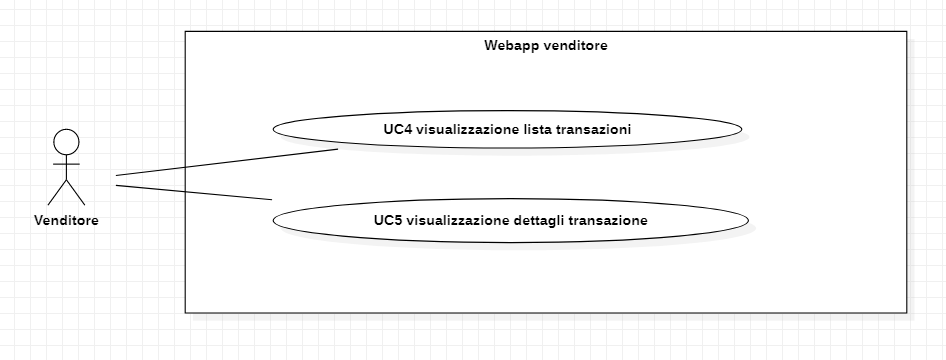
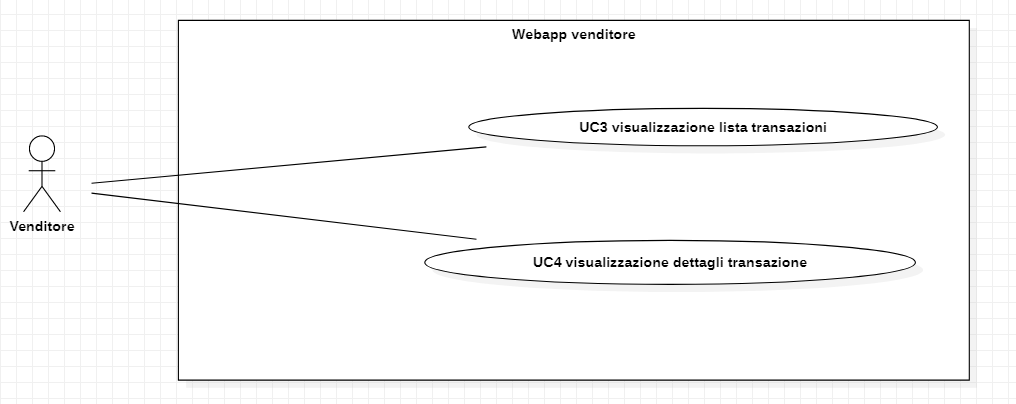
immagini e requisiti

diff --git a/docs/esterni/analisi_dei_requisiti/analisi_dei_requisiti.tex b/docs/esterni/analisi_dei_requisiti/analisi_dei_requisiti.tex
@@ -40,7 +40,7 @@ Lo scopo del documento è raccogliere i risultati dell'attività di analisi dei 
 
 \section{Descrizione del prodotto}
 L'azieda \textit{SyncLab} propone, attraverso il capitolato C2: \textit{ShopChain - Exchange Platform on
-BlockChain}. L'obiettivo è sviluppare un sistema che permetta ad un qualsiasi e-commerce di usare criptovalute come metodo di pagamento. ciò consiste nella realizzazione su blockchain di una piattaforma che si incarichi di ricevere l’ammontare in criptovaluta, lo trattenga, e lo consegni al venditore solo quando il pacco viene recapitato all’acquirente.
+BlockChain}. L'obiettivo è sviluppare un sistema che permetta ad un qualsiasi e-commerce di usare criptovalute come metodo di pagamento. Ciò consiste nella realizzazione su blockchain di una piattaforma che si incarichi di ricevere l’ammontare in criptovaluta, lo trattenga, e lo consegni al venditore solo quando il pacco viene recapitato all’acquirente.
 \subsection{Scopo del prodotto}
 Il progetto consiste nello sviluppo di una piattaforma su blockchain con lo scopo di rendere possibile l'acquisto di prodotti tramite criptovalute in sicurezza. Il processo di trasferimento del denaro avviene seguendo queste fasi:
 \begin{enumerate}
@@ -68,7 +68,7 @@ Tutti gli utenti sono in possesso di un wallet per criptovalute.
 Non potendo prevedere con accuratezza quanti e quali e-commerce decideranno di utilizzare \textit{ShopChain} altre considerazioni sulle caratteristiche di utenza sono irrilevanti. Il prodotto deve essere facilmente integrabile in più tipologie di e-commerce possibili.
 
 \subsection{Vincoli e preferenze}
-La proponente non impone vincoli nella scelta della tipologia di tecnologie, va ci sono comunque delle scelte preferenziali da considerare:
+Il proponente non impone vincoli nella scelta della tipologia di tecnologie, ma ci sono comunque delle scelte preferenziali da considerare:
 \begin{itemize}
 \item Utilizzo di blockchain pubblica
 \item Utilizzo di Java e Angular per lo sviluppo delle parti di Back-end e di Front-end della componente web application del sistema
@@ -83,6 +83,8 @@ Per il completamento del progetto il proponente richiede che siano realizzati i 
 \end{itemize}
 
 \section{Casi d'uso}
+
+\includegraphics[width=0.7\textwidth]{UseCase_venditore1.png}
 
 \paragraph{UC1 - Consultazione manuale ShopChain}
 \textbf{Attore primario}: Venditore\\
@@ -133,8 +135,7 @@ Per il completamento del progetto il proponente richiede che siano realizzati i 
 \paragraph{UC3 visualizzazione lista transazioni}
 \textbf{Attore primario}: Venditore \\
 \textbf{Precondizioni}: Il venditore ha effettuato l'accesso al sistema.\\
-\textbf{Postcondizioni}:  Il venditore vede la lista delle transazioni
-Scenario principale.\\
+\textbf{Postcondizioni}:  Il venditore vede la lista delle transazioni.\\
 \textbf{Scenario principale}:
 \begin{enumerate}
 \item Il venditore tramite un menù arriva alla lista delle transazioni.
@@ -146,6 +147,7 @@ Scenario principale.\\
 \textbf{Attore primario}: Venditore\\
 \textbf{Precondizioni}: Il venditore ha acceduto alla funzionalità di visualizzazione della lista delle transazioni.\\
 \textbf{Postcondizioni}: Il venditore vede i dettagli di una singola transizione.\\
+\textbf{Scenario principale}:
 \begin{enumerate}
 \item Il venditore seleziona una delle transizioni dall'elenco.
 \item Il venditore visualizza i dettagli della singola transizione.
@@ -163,6 +165,7 @@ Scenario principale.\\
 \textbf{Attore primario}: Venditore\\
 \textbf{Precondizioni}: Il venditore vuole generare il QR Code di una transizione in attesa.\\
 \textbf{Postcondizioni}: Il venditore è in possesso del QR Code da applicare sul pacco del prodotto.\\
+\textbf{Scenario principale}:
 \begin{enumerate}
 \item Il venditore visualizza il Qr Code della transizione in attesa selezionata.
 \item Il venditore stampa il Qr Code e lo applica sul pacco del prodotto.
@@ -394,7 +397,7 @@ Scenario principale.\\
 \end{enumerate}
 
 \section{Requisiti}
-Ogni requisito è indentificato da un codice univoco composto da: R(per requisito)+F/Q/V(per la tipologia: funzionale, qualitativo, di vincolo)+O/D/F(per la rilevanza: obbligatorio, desiderabile, facoltativo)+x(un numero univoco).
+Ogni requisito è indentificato da un codice univoco composto da: R(per requisito)+F/N(per la tipologia: funzionale, non funzionale)+O/D/F(per la rilevanza: obbligatorio, desiderabile, facoltativo)+x(un numero univoco a due cifre).
 \subsection{Requisiti funzionali}
  
  \setlength\tabcolsep{4pt}
@@ -414,98 +417,85 @@ Ogni requisito è indentificato da un codice univoco composto da: R(per requisit
  \endhead
 
 \hline
-RFOX & Il venditore privo di wallet riconosciuto deve poter far riconoscere il proprio wallet tramite Metamask. & Obbligatorio & UC2 \\
+RFO01 & Il venditore privo di wallet riconosciuto deve poter far riconoscere il proprio wallet tramite Metamask. & Obbligatorio & UC2 \\
 \hline
-RFOX & L'acquirente privo di wallet riconosciuto deve poter far riconoscere il proprio wallet tramite Metamask & Obbligatorio & UC6, UC14 \\
+RFO02 & L'acquirente privo di wallet riconosciuto deve poter far riconoscere il proprio wallet tramite Metamask. & Obbligatorio & UC6, UC14 \\
 \hline
-RFOX & Il venditore con wallet già associato tramite metamask deve poter accedere automaticamente al sistema & Obbligatorio & UC7, UC15 \\
+RFO03 & Il venditore con wallet già associato tramite metamask deve poter accedere automaticamente al sistema. & Obbligatorio & UC7, UC15 \\
 \hline
-RFOX & L'acquirente con wallet già associato tramite metamask deve poter accedere automaticamente al sistema & Obbligatorio & UC7, UC15 \\
+RFO04 & L'acquirente con wallet già associato tramite metamask deve poter accedere automaticamente al sistema. & Obbligatorio & UC7, UC15 \\
 \hline
-RFOX & Un utente privo di wallet riconosciuto non può accedere al sistema & Obbligatorio & Capitolato, decisione interna \\
+RFO05 & Un utente privo di wallet riconosciuto non può accedere al sistema. & Obbligatorio & Capitolato, decisione interna \\
 \hline
-RFOX & Il sistema deve mostrare un messaggio di errore se la procedura di riconoscimento wallet tramite Metamask fallisce & Obbligatorio & UC3.2, UC11, UC18 \\
+RFO06 & Il sistema deve mostrare un messaggio di errore se la procedura di riconoscimento wallet tramite Metamask fallisce. & Obbligatorio & UC3.2, UC11, UC18 \\
 \hline
-RFOX & Il venditore deve poter visualizzare la lista delle transazioni. & Obbligatorio & UC3 \\ 
+RFO07 & Il venditore deve poter visualizzare la lista delle transazioni. & Obbligatorio & UC3 \\ 
 \hline
-RFOX & Il venditore deve poter visualizzare i dettagli di una singola transizione. & Obbligatorio & UC4 \\ 
+RFO08 & Il venditore deve poter visualizzare i dettagli di una singola transizione. & Obbligatorio & UC4 \\ 
 \hline
-RFOX & Il venditore deve poter visualizzare, per ogni transazione, il suo stato, l'importo, e la scadenza & Obbligatorio & UC4.1, UC4.3 e UC4.4 \\ 
+RFO09 & Il venditore deve poter visualizzare, per ogni transazione, il suo stato, l'importo, e la scadenza. & Obbligatorio & UC4.1, UC4.3 e UC4.4 \\ 
 \hline
-RFOX & Il venditore deve poter generare il QR Code corrispondente ad una certa transizione, direttamente dalla pagina di visualizzazione dei dettagli della stessa. & Obbligatorio & UC4.2 \\ 
+RFO10 & Il venditore deve poter generare il QR Code corrispondente ad una certa transizione, direttamente dalla pagina di visualizzazione dei dettagli della stessa. & Obbligatorio & UC4.2 \\ 
 \hline
-RFOX & Ad ogni inserimento di un nuovo prodotto nel sito di e-commerce del venditore, in automatico viene inserito lo stesso prodotto in blockchain. & Obbligatorio & UC5 \\ 
+RFO11 & Ad ogni inserimento di un nuovo prodotto nel sito di e-commerce del venditore, in automatico viene inserito lo stesso prodotto in blockchain. & Obbligatorio & UC5 \\ 
 \hline
-RFOX & L'acquirente con wallet associato deve poter vedere il riepilogo del'ordine sulla landing page & Obbligatorio & UC8 \\
+RFO12 & L'acquirente con wallet associato deve poter vedere il riepilogo del'ordine sulla landing page. & Obbligatorio & UC8 \\
 \hline
-RFOX & Il costo nel riepilogo ordine sulla landing page deve essere visualizzato in dollari & Obbligatorio & UC8.1 \\
+RFO13 & Il costo nel riepilogo ordine sulla landing page deve essere visualizzato in dollari. & Obbligatorio & UC8.1 \\
 \hline
-RFOX & L'acquirente con wallet associato deve poter confermare l'ordine sulla landing page & Obbligatorio & UC9 \\
+RFO14 & L'acquirente con wallet associato deve poter confermare l'ordine sulla landing page. & Obbligatorio & UC9 \\
 \hline
-RFOX & Il sistema deve mostrare un messaggio se l'utente annulla l'ordine sulla landing page & Obbligatorio & UC12 \\
+RFO15 & Il sistema deve mostrare un messaggio se l'utente annulla l'ordine sulla landing page. & Obbligatorio & UC12 \\
 \hline
-RFOX & L'acquirente con wallet associato deve poter pagare l'ordine sulla landing page tramite Metamask & Obbligatorio & UC10 \\
+RFO16 & L'acquirente con wallet associato deve poter pagare l'ordine sulla landing page tramite Metamask. & Obbligatorio & UC10 \\
 \hline
-RFOX & Il sistema deve mostrare un messaggio di errore se la procedura di pagamento sulla landing page tramite Metamask fallisce & Obbligatorio & UC13 \\
+RFO17 & Il sistema deve mostrare un messaggio di errore se la procedura di pagamento sulla landing page tramite Metamask fallisce. & Obbligatorio & UC13 \\
 \hline
-RFOX & L'acquirente con wallet associato deve poter scansionare il QR Code sulla webapp & Obbligatorio & UC16 \\
+RFO18 & L'acquirente con wallet associato deve poter scansionare il QR Code sulla webapp. & Obbligatorio & UC16 \\
 \hline
-RFOX & Il sistema deve mostrare un messaggio di errore se la procedura di scansione QR Code nella webapp fallisce & Obbligatorio & UC19 \\
+RFO19 & Il sistema deve mostrare un messaggio di errore se la procedura di scansione QR Code nella webapp fallisce. & Obbligatorio & UC19 \\
 \hline
-RFOX & L'acquirente con wallet associato deve poter accettare sulla webapp tramite Metamask & Obbligatorio & UC17 \\
+RFO20 & L'acquirente con wallet associato deve poter accettare sulla webapp tramite Metamask. & Obbligatorio & UC17 \\
 \hline
-RFOX & Il sistema deve mostrare un messaggio di errore se la procedura di accettazione ordine nella webapp tramite Metamask fallisce & Obbligatorio & UC20 \\
+RFO21 & Il sistema deve mostrare un messaggio di errore se la procedura di accettazione ordine nella webapp tramite Metamask fallisce. & Obbligatorio & UC20 \\
 \hline
 
 \end{longtable}
+\pagebreak
 
 \setlength\tabcolsep{4pt}
 \begin{longtable}{|c|p{5cm}|c|c|}
 \hline
- \multicolumn{4}{| c |}{Requisiti di vincolo}\\
+ \multicolumn{4}{| c |}{Requisiti non funzionali}\\
  \hline
  Codice & Descrizione & rilevanza & fonti\\
  \hline
  \endfirsthead
 
  \hline
- \multicolumn{4}{| c |}{Requisiti di vincolo}\\
+ \multicolumn{4}{| c |}{Requisiti non funzionali}\\
  \hline
  Codice & Descrizione & Rilevanza & Fonti\\
  \hline
  \endhead
 
 \hline
-RVOX & Utilizzo di blockchain pubblica & Obbligatorio & Capitolato, decisione interna \\
+RNO22 & Utilizzo di blockchain pubblica. & Obbligatorio & Capitolato, decisione interna \\
 \hline
-RVDX & Utilizzo di Java e Angular per lo sviluppo delle parti di Back-end e di Front-end
-della componente web application del sistema & Desiderabile &  Capitolato\\
+RND23 & Utilizzo di Java e Angular per lo sviluppo delle parti di Back-end e di Front-end
+della componente web application del sistema. & Desiderabile &  Capitolato\\
 \hline
-RVDX & Utilizzo di database Postgres & Desiderabile & Capitolato \\
+RND24 & Utilizzo di database Postgres. & Desiderabile & Capitolato \\
 \hline
-\end{longtable}
-
-\setlength\tabcolsep{4pt}
-\begin{longtable}{|c|p{5cm}|c|c|}
+RND25 & Utilizzo di Java e Angular per lo sviluppo delle parti di Back-end e di Front-end
+della componente web application del sistema. & Desiderabile &  Capitolato\\
 \hline
- \multicolumn{4}{| c |}{Requisiti di quaità}\\
- \hline
- Codice & Descrizione & rilevanza & fonti\\
- \hline
- \endfirsthead
-
- \hline
- \multicolumn{4}{| c |}{Requisiti di qualità}\\
- \hline
- Codice & Descrizione & Rilevanza & Fonti\\
- \hline
- \endhead
-
+RNO26 & Il venditore deve disporre di un manuale utente per l'utilizzo del sistema. & Obbligatorio &  UC1, decisione interna\\
 \hline
-RQOX & Test che dimostrino il corretto funzionamento dei servizi e delle funzionalit`a previste,
+RNO27 & Test che dimostrino il corretto funzionamento dei servizi e delle funzionalit`a previste,
 con una copertura minima dell’ 80\% correlata di report. & Obbligatorio & Capitolato\\
 \hline
-RQOX & Documentazione su scelte implementative e progettuali effettuate, le relative motivazioni, i problemi aperti e le eventuali soluzioni proposte da esplorare. & Obbligatorio & Capitolato\\
+RNO28 & Documentazione su scelte implementative e progettuali effettuate, le relative motivazioni, i problemi aperti e le eventuali soluzioni proposte da esplorare. & Obbligatorio & Capitolato\\
 \hline
 
 \end{longtable}
